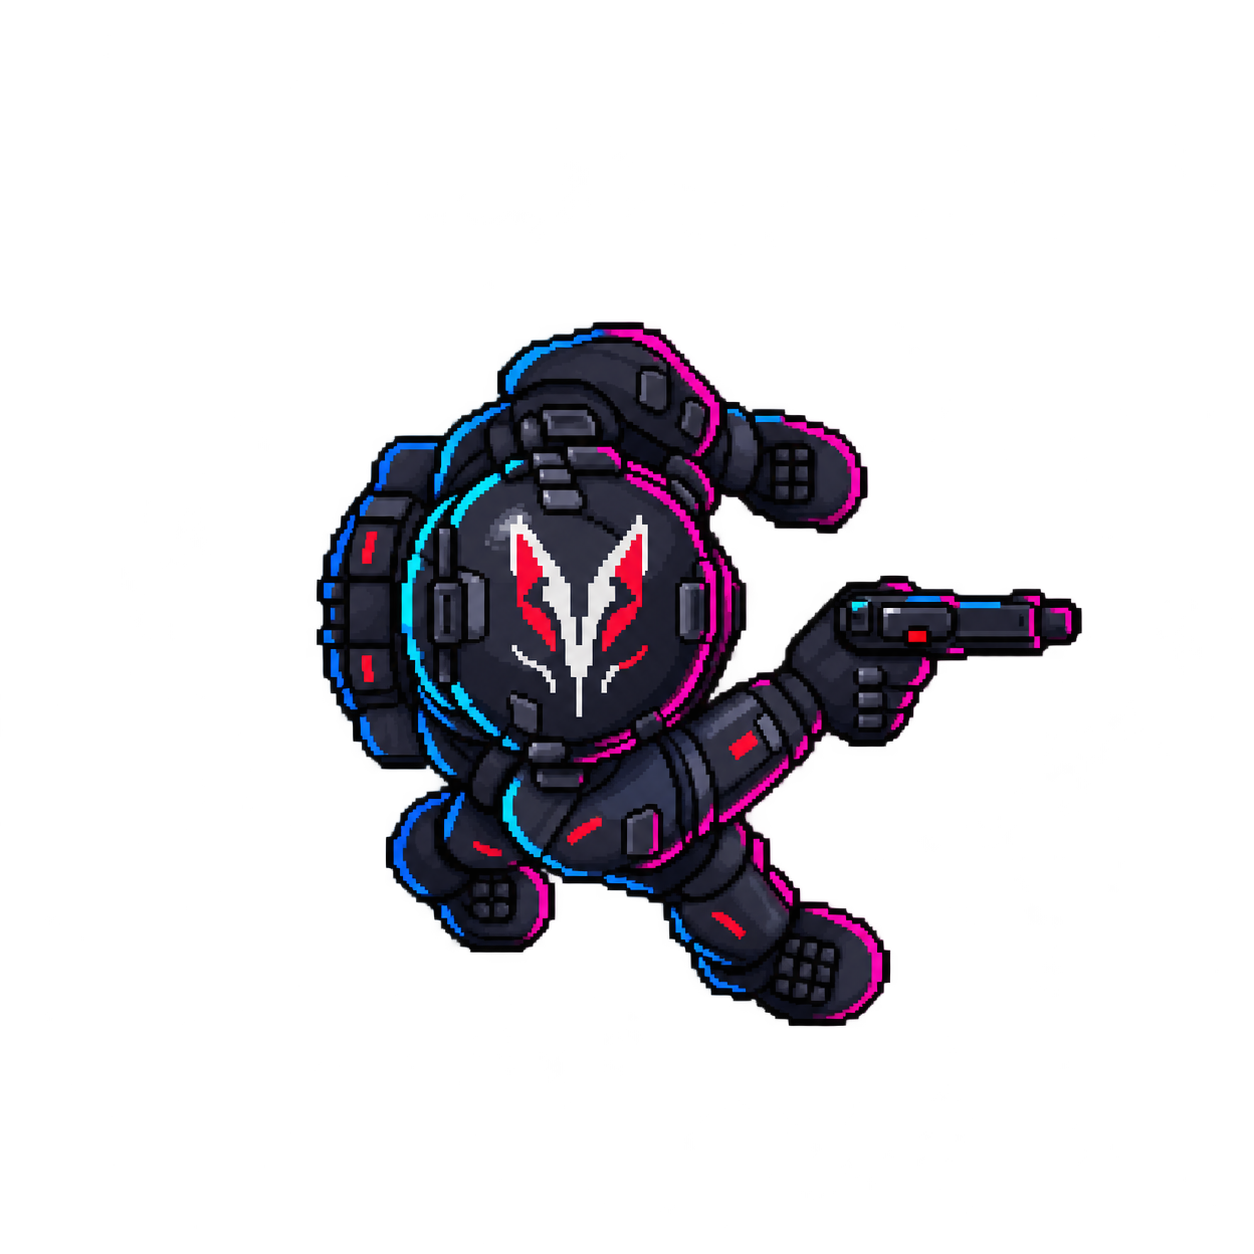
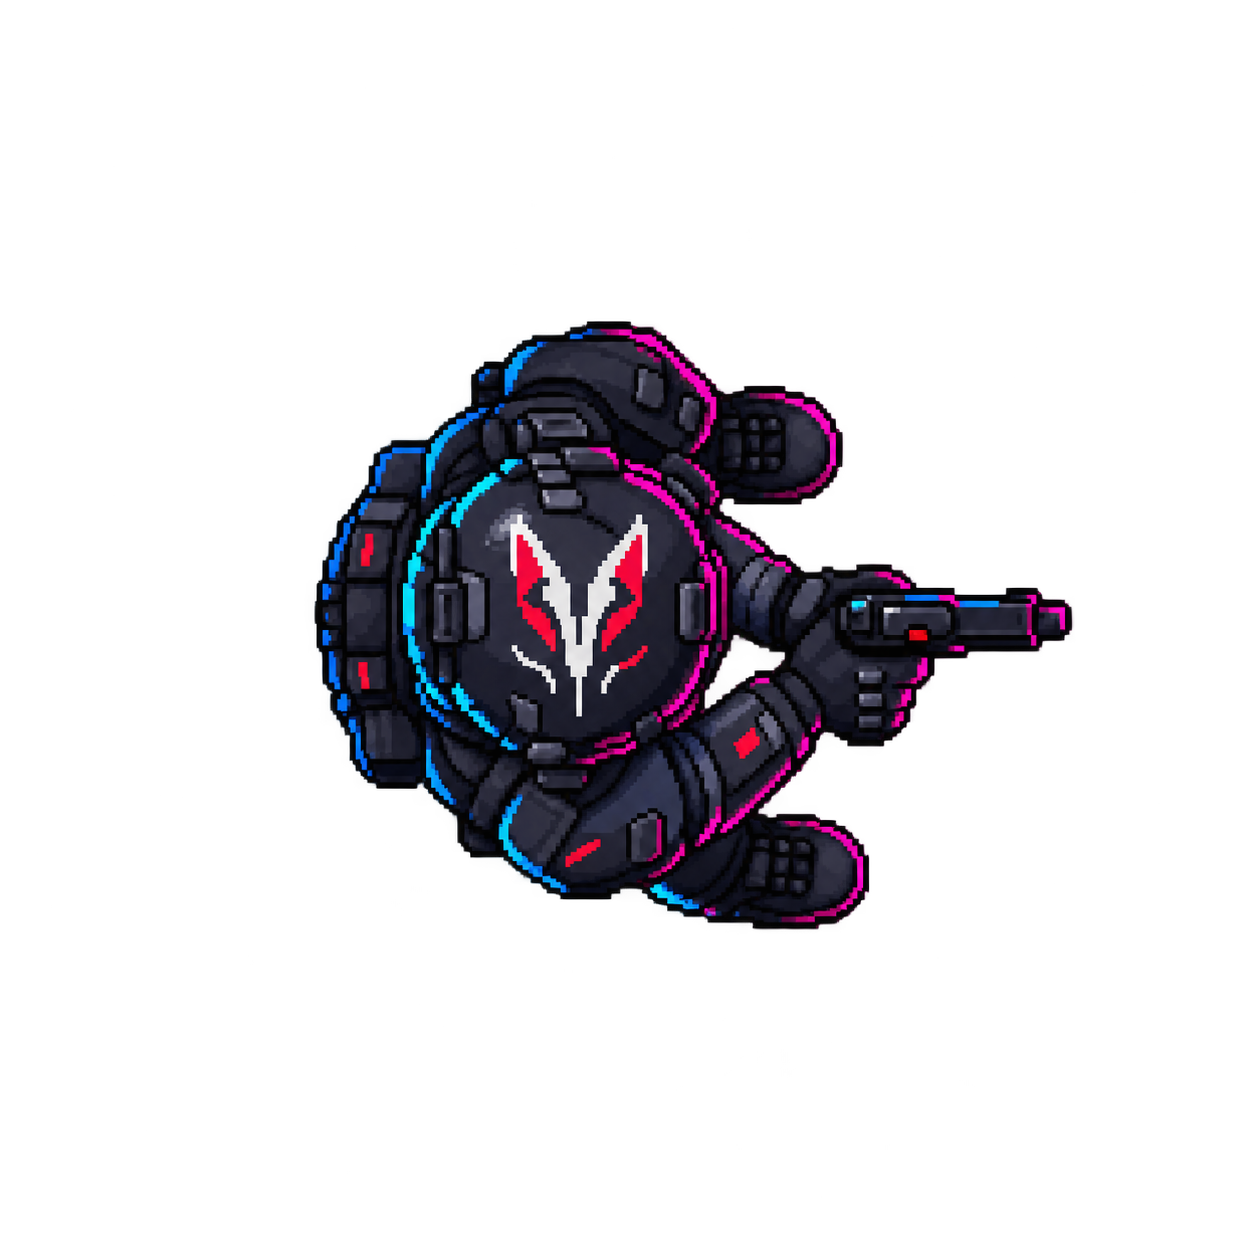
걷기 이미지와 동작 전환 조정

Changed region(s): [[0.2488, 0.2488, 0.8708, 0.8397]]

diff --git a/src/gamename/GameMain.cs b/src/gamename/GameMain.cs
@@ -74,7 +74,7 @@ class GameMain : G2AppBase
         if (CanWalk(_playerX, nextY)) _playerY = nextY;
 
         _walking = _playerX != oldX || _playerY != oldY;
-        if (_walking) _walkTime += (float)DeltaTime;
+        if (_walking) _walkTime += (float)Math.Min(DeltaTime, 0.05);
         else _walkTime = 0;
     }
 
@@ -86,7 +86,7 @@ class GameMain : G2AppBase
         _stage?.Draw(
             new Rect(0, 0, ScreenSize.Width, ScreenSize.Height),
             new Rect(cameraX, cameraY, ScreenSize.Width, ScreenSize.Height));
-        int frame = _walking ? (int)(_walkTime / 0.09f) % 4 : 0;
+        int frame = _walking ? (int)(_walkTime / 0.12f) % 4 : 0;
         G2Texture? sprite = frame switch
         {
             1 => _playerWalk1,
